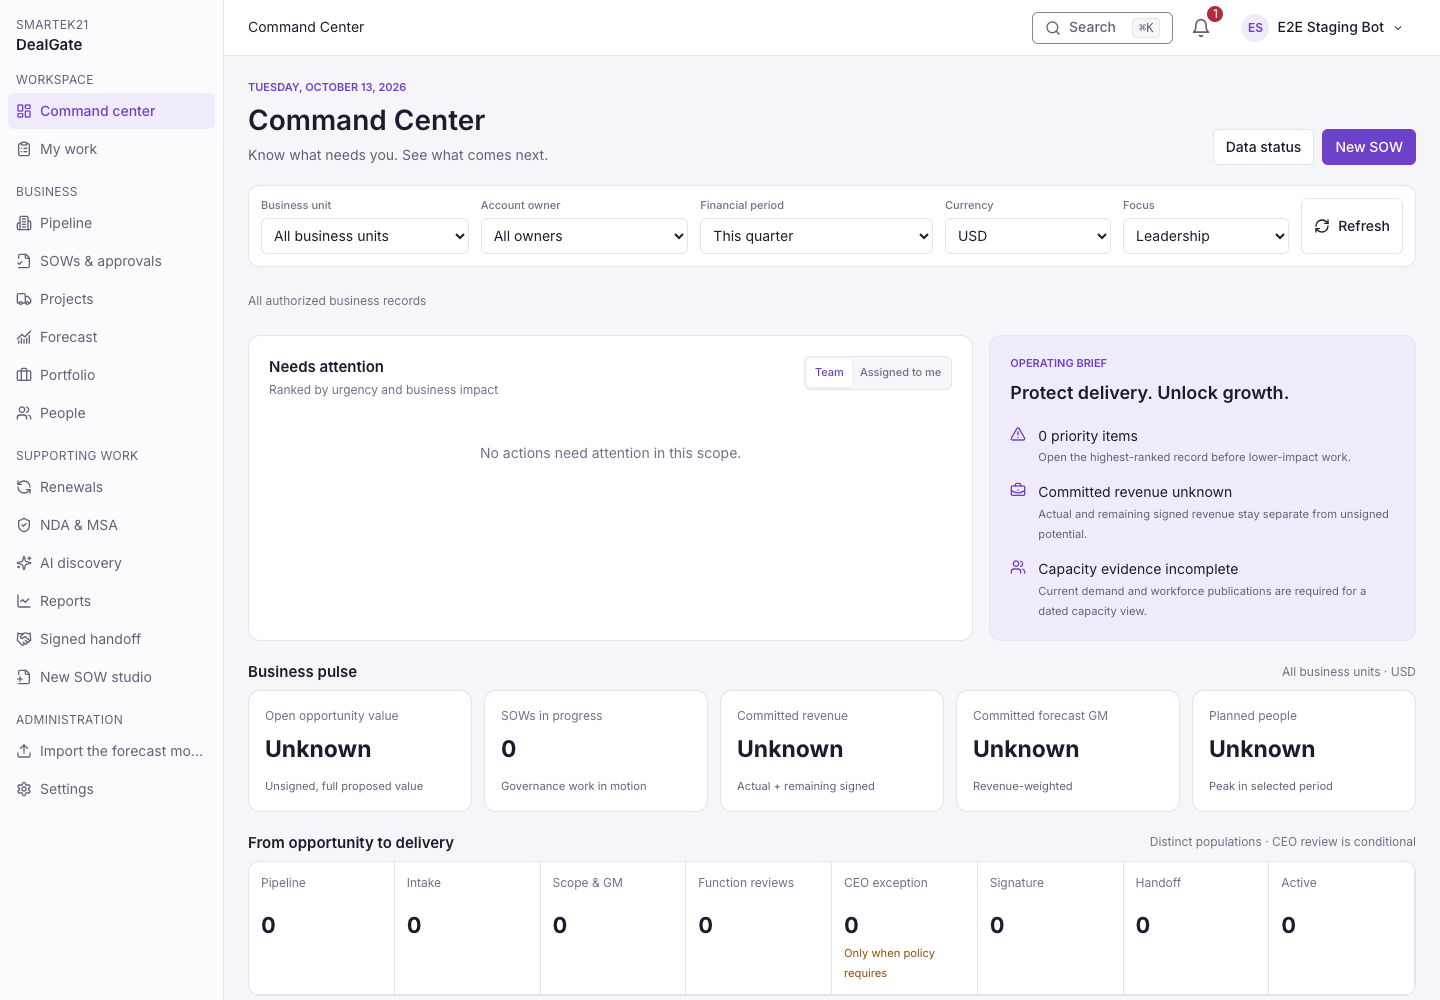
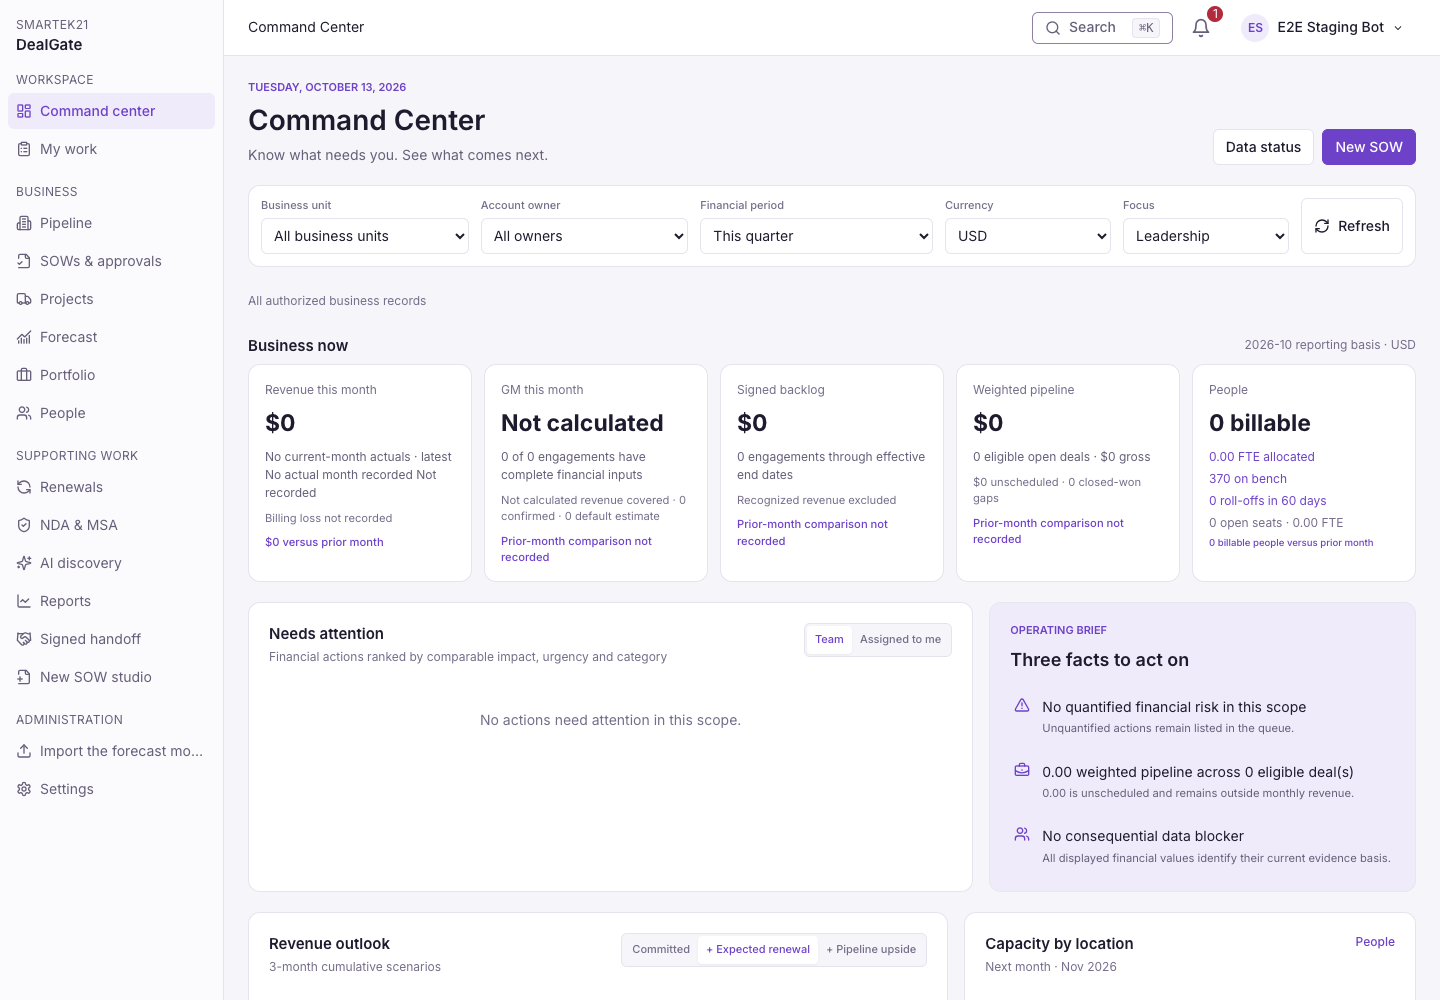
test(command-center): prove integrated staging candidate

diff --git a/tests/e2e/specs/command-center-redesign.spec.ts b/tests/e2e/specs/command-center-redesign.spec.ts
@@ -23,6 +23,16 @@ type AccountsPage = {
   configuration_gaps: string[];
 };
 
+type CommandOverview = {
+  tiles: Record<string, unknown>;
+  actions: unknown[];
+  brief: unknown[];
+  revenue: { months: unknown[] };
+  lifecycle_items: Array<{ key: string }>;
+  capacity: { month: string; status: string };
+  sources: Array<{ name: string; status: string }>;
+};
+
 test.beforeEach(async ({ page }) => {
   await authStaging(page, BASE);
 });
@@ -41,8 +51,31 @@ test("deployed Command Center serves the canonical scope and connected operation
   expect(overviewResponse.status()).toBe(200);
 
   const accounts = (await accountsResponse.json()) as AccountsPage;
+  const overview = (await overviewResponse.json()) as CommandOverview;
   expect(accounts.scope_label).toBe("HubSpot deals · Stage 5 and above");
   expect(accounts.configuration_gaps).toEqual(expect.any(Array));
+  expect(Object.keys(overview.tiles).sort()).toEqual(
+    ["backlog", "gm", "people", "pipeline", "revenue"],
+  );
+  expect(overview.brief).toHaveLength(3);
+  expect(overview.revenue.months).toHaveLength(3);
+  expect(overview.lifecycle_items.map((item) => item.key)).toEqual([
+    "pipeline",
+    "sow_in_approval",
+    "signed",
+    "engagement_created",
+    "active",
+    "renewal_due",
+  ]);
+  expect(overview.capacity.month).toMatch(/^\d{4}-\d{2}$/);
+  expect(overview.sources.map((source) => source.name)).toEqual(
+    expect.arrayContaining([
+      "Portfolio engagement ledger",
+      "Forecast calculation service",
+      "Workforce supply",
+      "HubSpot pipeline mirror",
+    ]),
+  );
   expect(new Set(accounts.items.map((row) => row.opportunity_id)).size).toBe(
     accounts.items.length,
   );
@@ -70,17 +103,31 @@ test("deployed Command Center serves the canonical scope and connected operation
   await expect(page.getByTestId("stage5-scope")).toHaveText(
     "HubSpot deals · Stage 5 and above",
   );
+  await expect(page.getByRole("heading", { name: "Business now" })).toBeVisible();
   await expect(page.getByRole("heading", { name: "Needs attention" })).toBeVisible();
-  await expect(page.getByRole("heading", { name: "Business pulse" })).toBeVisible();
+  await expect(page.getByRole("heading", { name: "Three facts to act on" })).toBeVisible();
   await expect(page.getByRole("heading", { name: "From opportunity to delivery" })).toBeVisible();
   await expect(page.getByRole("heading", { name: "Revenue outlook" })).toBeVisible();
-  await expect(page.getByRole("heading", { name: "Delivery capacity" })).toBeVisible();
+  await expect(page.getByRole("heading", { name: "Capacity by location" })).toBeVisible();
   await expect(page.getByRole("heading", { name: "Accounts & engagements" })).toBeVisible();
+  await expect(page.getByRole("heading", { name: "Data & operational health" })).toBeVisible();
   await expect(page.getByRole("combobox", { name: "Filter accounts by business unit" })).toBeVisible();
   await expect(page.getByText(/Could not load (actions|accounts):/)).toHaveCount(0);
+  for (const label of [
+    "Revenue this month",
+    "GM this month",
+    "Signed backlog",
+    "Weighted pipeline",
+    "People",
+  ]) {
+    await expect(page.getByText(label, { exact: true }).first()).toBeVisible();
+  }
+  await expect(page.getByText("Unknown", { exact: true })).toHaveCount(0);
 
   for (const label of ["Pipeline", "SOWs & approvals", "Projects", "Forecast", "Portfolio", "People"]) {
-    await expect(page.getByRole("link", { name: label, exact: true })).toBeVisible();
+    await expect(
+      page.getByLabel("Primary navigation").getByRole("link", { name: label, exact: true }),
+    ).toBeVisible();
   }
 
   if (accounts.items.length === 0) {
@@ -131,9 +178,11 @@ test("deployed Command Center contains every surface at mobile width", async ({ 
   await page.goto(`${BASE}/command`);
   await expect(page.getByRole("heading", { name: "Command Center" })).toBeVisible();
   await expect(page.getByTestId("stage5-scope")).toBeVisible();
-  await expect(page.getByText(/\d+ eligible deals?/)).toBeVisible();
-  await expect(page.getByText("Loading ranked work…")).toHaveCount(0);
-  await expect(page.getByText("Loading source health…")).toHaveCount(0);
+  await expect(page.getByRole("heading", { name: "Business now" })).toBeVisible();
+  await expect(page.getByRole("heading", { name: "Three facts to act on" })).toBeVisible();
+  await expect(page.getByText(/^\d+ eligible deals?$/)).toBeVisible();
+  await expect(page.getByText("Loading business evidence…")).toHaveCount(0);
+  await expect(page.getByText("Loading eligible HubSpot deals…")).toHaveCount(0);
   await expect
     .poll(() =>
       page.evaluate(

diff --git a/docs/s21/claude-handoff.md b/docs/s21/claude-handoff.md
@@ -2,59 +2,86 @@
 
 ## RESUME HERE
 
-**2026-10-13 22:15 PDT — COMMAND CENTER INTEGRATION CANDIDATE COMMITTED,
-IMMUTABLE IMAGE PUBLISHED, EXACT STAGING PLAN AWAITS HUMAN APPROVAL.** The
+**2026-10-13 22:40 PDT — COMMAND CENTER FORECAST/PORTFOLIO CANDIDATE DEPLOYED
+AND VERIFIED ON STAGING; PRODUCT-OWNER CLICK-THROUGH IS THE NEXT GATE.** The
 authoritative tree is
 `/Users/srikanthparimi/OfficeApp/dealgate-command-center-redesign`, branch
-`feat/command-center-redesign`, full application commit
-`a5f3445a8d99c762559426e499f6cd366779592f`. Main remains isolated and no merge
-is authorized before staging acceptance.
-
-Local gates on that revision: PostgreSQL fresh upgrade -> 0068 downgrade ->
-0068 re-upgrade succeeded in isolated database `dealgate_cc_verify`, leaving
-head `20261013_0068_cc_rules` and constraint `ck_renewal_likelihood`; Command
-Center backend tests 15/15; current Command Center UI tests 6/6; TypeScript and
-Ruff clean. The broader affected frontend set was 41/41 before the final
-migration-name correction, which did not touch frontend code.
-
-Immutable AMD64 image
-`669810405473.dkr.ecr.us-east-2.amazonaws.com/officeapp-dev-api:ccint-a5f3445`
-is published at digest
-`sha256:a5c3020afad1ec8fd11e3da9d515ba0e16c4d0ee67a08313e8aad786bee861f0`.
-The refreshed whole-root Terraform plan is
-`/tmp/ccint-a5f3445.tfplan` (SHA-256
[1 lines of base64/hex data omitted]
-text and JSON renderings are `/tmp/ccint-a5f3445.plan.txt` and
-`/tmp/ccint-a5f3445.plan.json` with checksums
[2 lines of base64/hex data omitted]
-
-The plan is exactly **12 add / 14 change / 12 destroy**. Eleven replacements
-are the API, migration and nine scheduled-worker ECS task definitions; the
-twelfth is the Terraform migration trigger. Updates are the API service, nine
-EventBridge targets and four RunTask policies following the new task
-revisions. Every container changes only from `ccfix-c606d76` to
-`ccint-a5f3445`. There are zero RDS, storage, Cognito, SES, secret, network,
-DNS, CloudFront, schedule-rule or business-data changes. Inputs preserve
-America/Los_Angeles, USD, S21 jobs enabled, production approver identities
-enabled, and optional cleanup/continuous HubSpot/operational hardening
-disabled.
-
-Required human action: approve only the exact saved Terraform plan identified
-above. After approval, resume with:
+`feat/command-center-redesign`, application commit
+`a5f3445a8d99c762559426e499f6cd366779592f`; the last committed documentation
+checkpoint before this incremental proof is
+`fd96ead93b1670af3e82dadbe75aa7b8102024eb`. `main` remains isolated at
+`3ef55e576508af70e5c34d8593eec09db1d01560`; no merge is authorized before
+explicit product-owner staging acceptance. Current task: owner validates the
+deployed Command Center with their real identity. Exact next command:
 
 ```bash
 cd /Users/srikanthparimi/OfficeApp/dealgate-command-center-redesign
-env AWS_PROFILE=lm-arbiter-poc AWS_REGION=us-east-2 terraform -chdir=infra-tf apply /tmp/ccint-a5f3445.tfplan
+git status --short --branch
+curl -fsS https://app.dealgateapp.com/ | rg 'assets/index-cy26KtjL.js'
+curl -fsS https://app.dealgateapp.com/api/healthz
 ```
 
-Then verify the migration task reaches 0068, the API and all worker task
-definitions resolve to the recorded digest, publish the matching production
-SPA, invalidate CloudFront, run deploy smoke and the focused connected Command
-Center reconciliation. No Terraform, migration, deployment, test or browser
-process is active. Current staging remains API revision 110 on
-`ccfix-c606d76` and SPA `assets/index-D6YIm2ot.js`; the candidate is not yet
-deployed.
+The approved Terraform plan `/tmp/ccint-a5f3445.tfplan` (SHA-256
[1 lines of base64/hex data omitted]
+applied exactly **12 add / 14 change / 12 destroy**. Migration task
+`520ea85209474600b8a9565af4ee6530` exited 0 on
+`officeapp-dev-api-migrate:49`; its log explicitly ran
+`20261013_0067_import_key -> 20261013_0068_cc_rules`. API service revision
+`officeapp-dev-api:111`, task `b649c06de9c94d65802e742c4dd64e80`, is stable
+1/1. The API, migration and all nine scheduled worker task definitions resolve
+to immutable AMD64 image `officeapp-dev-api:ccint-a5f3445`, digest
+`sha256:a5c3020afad1ec8fd11e3da9d515ba0e16c4d0ee67a08313e8aad786bee861f0`.
+
+The matching SPA serves `assets/index-cy26KtjL.js` and
+`assets/index-B8R_pDti.css`; CloudFront invalidation
+`IBTP7QMC3BDVTV4ELZKJ311O2G` completed. `/api/healthz` is green. Deploy smoke
+run `smoke 20261014T052838Z` passed real extraction, confirmation and draft API
+steps, then deleted its owned client
+`9d6859de-c72d-42ed-88bb-be4cbd3c8681`; the final clean gate found zero
+test-tagged clients, e2e approvers on real SOWs, tagged people or tagged
+engagements. Focused deployed Playwright passed 2/2 in 25.2 seconds. Screens:
+`docs/evidence/command-center/command-center-staging-desktop.png` and
+`command-center-staging-mobile.png`. The first browser run failed only because
+two valid People links and two valid eligible-deal texts made loose locators
+ambiguous; selectors were scoped to primary navigation and exact count text,
+with no product assertion or timeout weakened.
+
+The E2E Cognito identity `officeapp-e2e` is deliberately isolated from real
+business data, so its screenshots prove structure and interactions, not live
+financial values. A read-only ECS task on API revision 111 under the existing
+authorized user `srikanthp@smartek21.com` provided the real-data receipt:
+task `95370e23db3e41f8bf810eb3e4659d6b`, exit 0, log
+`/tmp/ccint-staging-proof.log` and CloudWatch stream
+`/officeapp/dev/api api/api/95370e23db3e41f8bf810eb3e4659d6b`.
+It returned October forecast $2,295,695.73; latest actual month September 2026
+$1,560,783.52; September billing loss $862,375.90; GM 44.12% with complete
+cost inputs for 2/43 engagements; signed backlog $20,407,361.86 across 43
+engagements; weighted pipeline $7,667,736.36 from 109 eligible deals; 224
+billable people / 224.14 FTE, 141 bench, 26 roll-offs and 11 open seats; 50
+ranked actions; exactly three brief facts; and six lifecycle populations.
+Next-month capacity showed 212.2 required / 201.2 allocated / 11 open FTE.
+
+Known staging data/configuration gaps are shown honestly by the product: the
+company billing-loss threshold is not configured, only 2/43 engagements have
+complete cost evidence, and Notifications reports 23 failed deliveries. These
+do not invalidate the deployed aggregation but need business/operational
+follow-up. Earlier diagnostic task
+`54ec3695c9c7433fadf8b78e84b09d01` failed before database access because
+literal newlines were passed in inline Python; the corrected read-only task
+above supersedes it and had no business-data mutation.
+
+Local verification on the application revision: Command Center API 15/15,
+affected frontend 41/41, current Command Center UI 6/6, renewal route 1/1,
+TypeScript/Ruff/build green, and isolated PostgreSQL fresh upgrade -> 0068,
+downgrade -> 0067, re-upgrade -> 0068 green with exact constraint
+`ck_renewal_likelihood`. Repository-wide E2E TypeScript remains blocked by
+four inherited errors in unchanged S14/S17 specs; none is in the changed
+Command Center spec. A fresh whole-root Terraform plan with the deployed image
+and approved inputs returned detailed exit code 0: **No changes**. No
+Terraform, migration, deployment, test, browser or worker process is active.
+The only pending files at the start of this handoff update are the focused
+staging spec and refreshed desktop/mobile evidence; they are intentional proof
+artifacts and must be committed with this update.
 
 **2026-10-13 22:01 PDT — COMMAND CENTER FORECAST/PORTFOLIO APPLICATION
 CANDIDATE IMPLEMENTED LOCALLY; STAGING PLAN IS NEXT.** Authoritative tree

diff --git a/docs/reports/command-center-integration.md b/docs/reports/command-center-integration.md
@@ -1,6 +1,6 @@
 # Command Center Forecast and Portfolio Integration
 
-## Staging candidate
+## Deployed staging candidate
 
 Application commit `a5f3445a8d99c762559426e499f6cd366779592f` is packaged as
 immutable AMD64 image `officeapp-dev-api:ccint-a5f3445`, digest
@@ -8,9 +8,44 @@ immutable AMD64 image `officeapp-dev-api:ccint-a5f3445`, digest
 The exact saved Terraform plan `/tmp/ccint-a5f3445.tfplan` is 12 add / 14
 change / 12 destroy and contains only revisioned ECS task definitions, the
 migration trigger, and references that follow those revisions. It contains no
-persistent-data, identity, storage, network, DNS or CDN change. The plan awaits
-the required human infrastructure approval; staging still runs API revision
-110 and the prior SPA.
+persistent-data, identity, storage, network, DNS or CDN change. The owner
+approved this exact plan and it applied successfully.
+
+Staging now runs API service revision `officeapp-dev-api:111`, stable 1/1, and
+all image-bearing API/migration/worker definitions resolve to the recorded
+digest. Migration task `520ea85209474600b8a9565af4ee6530` exited 0 after
+running `20261013_0067_import_key -> 20261013_0068_cc_rules`. The matching SPA
+serves `assets/index-cy26KtjL.js` and `assets/index-B8R_pDti.css`; CloudFront
+invalidation `IBTP7QMC3BDVTV4ELZKJ311O2G` completed. Deploy smoke
+`smoke 20261014T052838Z` passed and deleted its owned fixture. Focused deployed
+Playwright passed 2/2 in 25.2 seconds with the refreshed desktop and mobile
+evidence under `docs/evidence/command-center/`. A fresh whole-root Terraform
+plan with the deployed image and approved inputs returned detailed exit code
+0: **No changes**.
+
+The automated browser identity is intentionally business-data isolated. A
+separate read-only ECS reconciliation used the deployed revision and the
+existing authorized production user without mutating business data. Receipt:
+task `95370e23db3e41f8bf810eb3e4659d6b`, exit 0,
+`/tmp/ccint-staging-proof.log`, CloudWatch stream
+`/officeapp/dev/api api/api/95370e23db3e41f8bf810eb3e4659d6b`.
+
+| Display | Deployed result | Reconciliation evidence |
+| --- | --- | --- |
+| Revenue this month | $2,295,695.73 forecast; no October actual; latest actual September 2026 $1,560,783.52 | Forecast schedule plus allocation actuals; September billing loss $862,375.90 |
+| GM this month | 44.12% | 2/43 engagements have complete cost inputs; 2 confirmed, 0 estimated, 34 missing-cost engagements |
+| Signed backlog | $20,407,361.86 across 43 engagements | Remaining permitted open-engagement schedules |
+| Weighted pipeline | $7,667,736.36; $21,596,444.14 gross; 109 eligible deals | Saved HubSpot stage probabilities; all currently unscheduled and therefore outside monthly bars |
+| People | 224 billable people / 224.14 FTE; 141 bench; 26 roll-offs; 11 open seats / 11 FTE | Published people allocation and demand |
+| Needs attention / brief | 50 ranked actions; exactly 3 brief facts | Financial/action categories and deterministic ranking |
+| Lifecycle | Pipeline 109, approval 0, signed 0, engagement created 45, active 38, renewal due 0 | Distinct stage populations |
+| Next-month capacity | 212.2 required / 201.2 allocated / 11 open FTE | India-Chennai 6/6; India-Pune 117/117; South Africa 3.2/3.2; US 86/75/11 |
+| Accounts | 22 Stage-5+ rows | Business units South Africa, US, US - IT Avalon, US - IT Avalon (Staffing) |
+
+Visible data-quality/operations gaps remain: company billing-loss threshold is
+not configured, current GM cost evidence is complete for only 2/43
+engagements, and Notifications has 23 failed deliveries. These are surfaced
+as source-health evidence rather than replaced with invented values.
 
 ## Verified baseline
 
@@ -42,9 +77,18 @@ The earlier reported 81 is the workbook dry-run population, not the current data
 
 ## Root cause before implementation
 
-`build_command_overview` currently begins with the HubSpot opportunity list and then reads only `Engagement` rows linked to those opportunities. The live database has zero such links, while Portfolio intentionally reads all permitted open engagements. The Command Center therefore drops the authoritative imported engagement population before any financial calculation runs. The old overview also treats its HubSpot Stage-5 table scope as a company-financial scope, which incorrectly applies the table-only restriction to tiles, risk detection and capacity.
+The previous `build_command_overview` began with the HubSpot opportunity list
+and then read only `Engagement` rows linked to those opportunities. The live
+database had zero such links, while Portfolio intentionally read all permitted
+open engagements. Command Center therefore dropped the authoritative imported
+engagement population before any financial calculation ran. The old overview
+also treated its HubSpot Stage-5 table scope as a company-financial scope,
+incorrectly applying the table-only restriction to tiles, risk detection and
+capacity.
 
-The fix will compose existing Portfolio/Forecast/Pipeline services into one permission-aware read model. It will not add a second calculator or require imported engagements to be republished.
+The deployed fix composes the existing Portfolio/Forecast/Pipeline services
+into one permission-aware read model. It does not add a second calculator or
+require imported engagements to be republished.
 
 ## Implementation order
 
